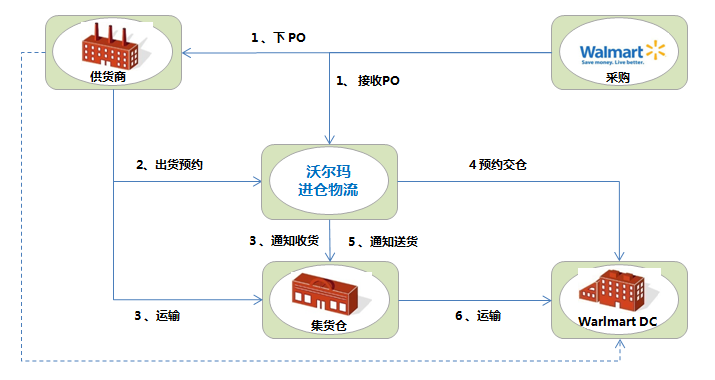
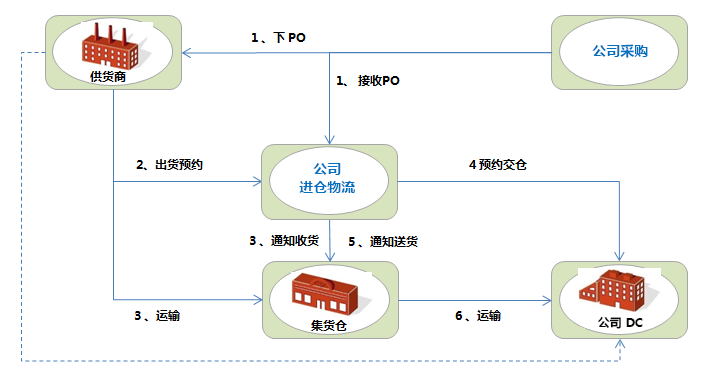
客户案例因为授权问题替换LOGO及相关文案

Changed region(s): [[0.8, 0.1158, 0.9538, 0.2316], [0.4, 0.4342, 0.5231, 0.5211], [0.8, 0.8105, 0.9231, 0.8684]]

diff --git a/src/routes/Case/config.js b/src/routes/Case/config.js
@@ -125,7 +125,7 @@ const case2 = [
     title: '实现客户需求',
     url: imageUrl('case2_demand'),
     list: [
-      '自动接收沃尔玛PO， 过滤沃尔玛责任的PO；',
+      '自动接收该公司PO， 过滤该公司责任的PO；',
       '供货商能发起出货预约，检测出货预约的准确性；',
       '能根据预约生成物流订单，能对物流订单进行拆分、计划；',
       '能向DC发起交货预约；',
@@ -154,11 +154,11 @@ const case3 = [
     render: renderCase3Introduction
   },
   {
-    title: '云恋基于INFOR WMS系统为恒康达提供个性化解决方案',
+    title: '云恋基于INFOR WMS系统为某某达提供个性化解决方案',
     list: [
       {
-        title: '1.个性化接口承接恒康达 B2BSCM系统，打通上下游系统数据流',
-        description: '云恋客制化系统接口对接恒康达的B2BSCM系统，实现采购管理/销售管理与仓库无缝衔接，提升管理效率。'
+        title: '1.个性化接口承接某某达B2BSCM系统，打通上下游系统数据流',
+        description: '云恋定制化系统接口对接某某达的B2BSCM系统，实现采购管理/销售管理与仓库无缝衔接，提升管理效率。'
       },
       {
         title: '2.通过系统多层级、多货主、多策略管理，实现库存货权精确管理',
@@ -190,14 +190,14 @@ const case4 = [
           '库存管理需求：货品基本上为海外仓库/订单进行出货，大部分货品为海外特定市场进行定制等，库存需要管理PR单号、' +
            '虚拟仓库代码（海外目的地市场）、是否含税、制造日期、供应商、是否定制、海翼批次、是否为专用、采购单号等分区管理；',
           '仓库作业管理要求：基于SKU操作，以特定批次属性信息分区管理、入库收集批次属性信息、出库指定批次属性出库、' +
-           '需支持不同批次属性信息转换；裕达无仓储管理团队、无仓储管理流程、无专业仓储管理人员；'
+           '需支持不同批次属性信息转换；某某达无仓储管理团队、无仓储管理流程、无专业仓储管理人员；'
         ]
       },
       {
         h2: '业务痛点',
         ul: [
           '库存多批次属性管理且现场为库位混批次、混SKU管理，手工管理无法满足需求；',
-          '佳裕达无仓储管理团队、无仓储管理流程、无专业仓储管理人员'
+          '某某达无仓储管理团队、无仓储管理流程、无专业仓储管理人员'
         ]
       }
     ],
@@ -208,18 +208,18 @@ const case4 = [
     list: [
       {
         h2: '入库流程：',
-        div: '海翼ERP/OMS推送ASN收货单--供应商预约--供应商到货--RF扫描入库--ASN收货单核实并结算--库存回写海翼ERP/OMS系统；',
+        div: '电商ERP/OMS推送ASN收货单--供应商预约--供应商到货--RF扫描入库--ASN收货单核实并结算--库存回写电商ERP/OMS系统；',
         ul: [
-          '海翼电商ERP/OMS系统推送ASN收货单至INFOR WMS系统；',
+          '电商ERP/OMS系统推送ASN收货单至INFOR WMS系统；',
           'RF扫描入库（扫描二维码，收集目的地市场、PR单号等产地信息）、RF扫描库位、数量入库；',
-          '确认并核实ASN收货单，回传入库信息至海翼的ERP/OMS系统；'
+          '确认并核实ASN收货单，回传入库信息至电商的ERP/OMS系统；'
         ],
       },
       {
         h2: '出库流程：',
-        div: '海翼ERP/OMS推送出库订单--库存分配--打印拣货单--订单出库--出库明细回写海翼ERP/OMS系统；',
+        div: '电商ERP/OMS推送出库订单--库存分配--打印拣货单--订单出库--出库明细回写电商ERP/OMS系统；',
         ul: [
-          '海翼电商ERP/OMS系统推送出库订单至INFOR WMS系统，出库明细指定批次信息；',
+          '电商ERP/OMS系统推送出库订单至INFOR WMS系统，出库明细指定批次信息；',
           'INFOR WMS根据推送的订单批次属性信息进行库存自动分配、库存锁定；',
           '库存分配规则为指定批次（指定供应商、定制、目的地市场等）、先进先出进行库存自动检索库存分配；',
           '纸单拣货（根据系统分配的库位、批次等信息进行拣货）；',
@@ -228,8 +228,8 @@ const case4 = [
       },
       {
         h2: '锁库单流程：',
-        div: '海翼ERP/OMS推送锁库单--INFOR接收并自动锁库--仓库拣货--海翼ERP/OMS锁库单取消/库存释放' +
-        '--海翼ERP/OMS推送出库单--指定批次/库位分配拣货--出库;',
+        div: '电商ERP/OMS推送锁库单--INFOR接收并自动锁库--仓库拣货--电商ERP/OMS锁库单取消/库存释放' +
+        '--电商ERP/OMS推送出库单--指定批次/库位分配拣货--出库;',
         ul: [
           '锁库单类型区分仓库是否备货；不备货则为订单锁定库存即可；备货则需根据锁库单拣货；',
           '实际出库订单优先分配已备货库位的库存；',
@@ -258,16 +258,16 @@ const case4 = [
 
 const case5 = [
   {
-    title: '海格物流仓储管理需求-库存管理需求',
+    title: '某格物流仓储管理需求-库存管理需求',
     list: [
-      '海格作为供应链公司，提供各式仓储服务，业务管理要求以及操作流程差异大；',
-      '海格服务的客户众多、产品以及需求差异化大；',
-      '海格在全国各地十几个仓库，需要集中化、标准化管理；'
+      '某格作为供应链公司，提供各式仓储服务，业务管理要求以及操作流程差异大；',
+      '某格服务的客户众多、产品以及需求差异化大；',
+      '某格在全国各地十几个仓库，需要集中化、标准化管理；'
     ],
     render: renderCase5Demand
   },
   {
-    title: '海格物流仓储管理需求-仓库管理流程规划设计应用',
+    title: '某格物流仓储管理需求-仓库管理流程规划设计应用',
     list: [
       {
         h2: '入库流程：',
@@ -322,49 +322,50 @@ export default {
     {
       url: '/case1',
       logo: imageUrl('logo1'),
-      title: '广西北部湾国际港务集团有限公司',
+      title: '综合物流行业-某某国际港务集团有限公司',
       business: '综合物流管理',
       product: 'ePLD',
-      description: '广西北部湾国际港务集团有限公司是广西自治区政府直属大型国有独资企业， ' +
-      '业务涵盖广西防城港、钦州港、北海港，包括航运管理、铁路及公路多式联运、仓储等综合物流服务。',
+      description: '某某国际港务集团有限公司是大型国有独资企业， 业务涵盖多个海港，' +
+      '包括航运管理、铁路及公路多式联运、仓储等综合物流服务。',
       content: case1
     },
     {
       url: '/case2',
       logo: imageUrl('logo2'),
-      title: '沃尔玛',
+      title: '大型零售商行业-某某玛连锁企业',
       business: '大型零售商',
       product: 'ePLD',
-      description: '沃尔玛是一家美国的世界性连锁企业，以营业额计算为全球最大的公司；沃尔玛的业务之所以能够迅速增长，' +
-      '并且成为知名公司之一，是因为沃尔玛在节省成本以及在物流配送系统与供应链管理方面取得了巨大的成就。',
+      description: '某某玛是一家美国的世界性连锁企业，以营业额计算为全球最大的公司；公司的业务之所以能够迅速增长，' +
+      '并且成为知名公司之一，是因为该公司在节省成本以及在物流配送系统与供应链管理方面取得了巨大的成就。',
       content: case2
     },
     {
       url: '/case3',
       logo: imageUrl('logo3'),
-      title: '恒康达',
+      title: '食品行业-某某达国际食品',
       business: '食品行业',
       product: 'infor WMS',
-      description: '恒康达专注进口品牌食品行业，为国内全渠道经销商。',
+      description: '某某达国际食品专注进口品牌食品行业，为国内全渠道经销商。',
       content: case3
     },
     {
       url: '/case4',
       logo: imageUrl('logo4'),
-      title: '佳裕达项目',
+      title: '第三方物流行业-某某达集团',
       business: '第三方物流',
       product: 'infor WMS',
-      description: '佳裕达集团为深圳民营第三方物流企业，提供的服务范围包含海运、陆运、空运报关、仓储等一条龙服务。' +
-      '其主要仓储客户为湖南海翼电商，海翼电商专业从事智能移动周边产品、智能生活周边产品及计算机周边产品的研发和销售。',
-      description2: '海翼电商仓库原仓储管理以手工Excel台账、物料卡等手段进行仓库管理。海翼电商于2017年3月将仓储业务' +
-      '外部至佳裕达公司。云恋科技承接佳裕达IT系统建设，协助佳裕达从零开始搭建仓储服务，实现仓储管理的信息化、流程标准化' +
-      '以及仓储团队组建等。现仓储管理超过10000㎡仓库、43000个SKU、450万PCS的库存管理。',
+      description: '某某达集团为深圳民营第三方物流企业，提供的服务范围包含海运、陆运、空运报关、仓储等一条龙服务。' +
+      '其主要仓储客户为一些大型电商，专业从事智能移动周边产品、智能生活周边产品及计算机周边产品的研发和销售。',
+      description2: '某大型电商仓库原仓储管理以手工Excel台账、物料卡等手段进行仓库管理。' +
+      '某大型电商于2017年3月将仓储业务外部至某某达集团公司。云恋科技承接某某达集团IT系统建设，' +
+      '协助它从零开始搭建仓储服务，实现仓储管理的信息化、流程标准化以及仓储团队组建等。' +
+      '现仓储管理超过10000㎡仓库、43000个SKU、450万PCS的库存管理。',
       content: case4
     },
     {
       url: '/case5',
       logo: imageUrl('logo5'),
-      title: '海格物流',
+      title: '综合物流行业-某格物流',
       business: '综合物流行业',
       product: 'infor WMS',
       description: '作为国内领先的供应链管理服务企业,主要为国际采购商及其制造商、大型零售商及其供货商、' +

diff --git a/src/routes/Case/Case.less b/src/routes/Case/Case.less
@@ -146,6 +146,10 @@
   > :last-child {
     max-width: 807px;
 
+    > :first-child {
+      line-height: 1em;
+    }
+
     > :nth-child(4) {
       color: #666;
       line-height: 24px;
@@ -167,6 +171,10 @@ a.Case-card {
 header.Case-card {
   margin: 0;
   padding: 0;
+
+  > :last-child > :last-child {
+    white-space: pre-wrap;
+  }
 }
 
 @media screen and (min-width: @screen-lg-min) {
@@ -354,6 +362,7 @@ header.Case-card {
 
     > :last-child {
       display: block;
+      margin-top: 15px;
 
       > :first-child {
         font-size: 16px;
@@ -408,7 +417,7 @@ header.Case-card {
         margin-top: 0;
 
         > header {
-          padding: 0 15px 30px;
+          padding: 15px 15px 30px;
         }
 
         > :last-child > div > :last-child {
